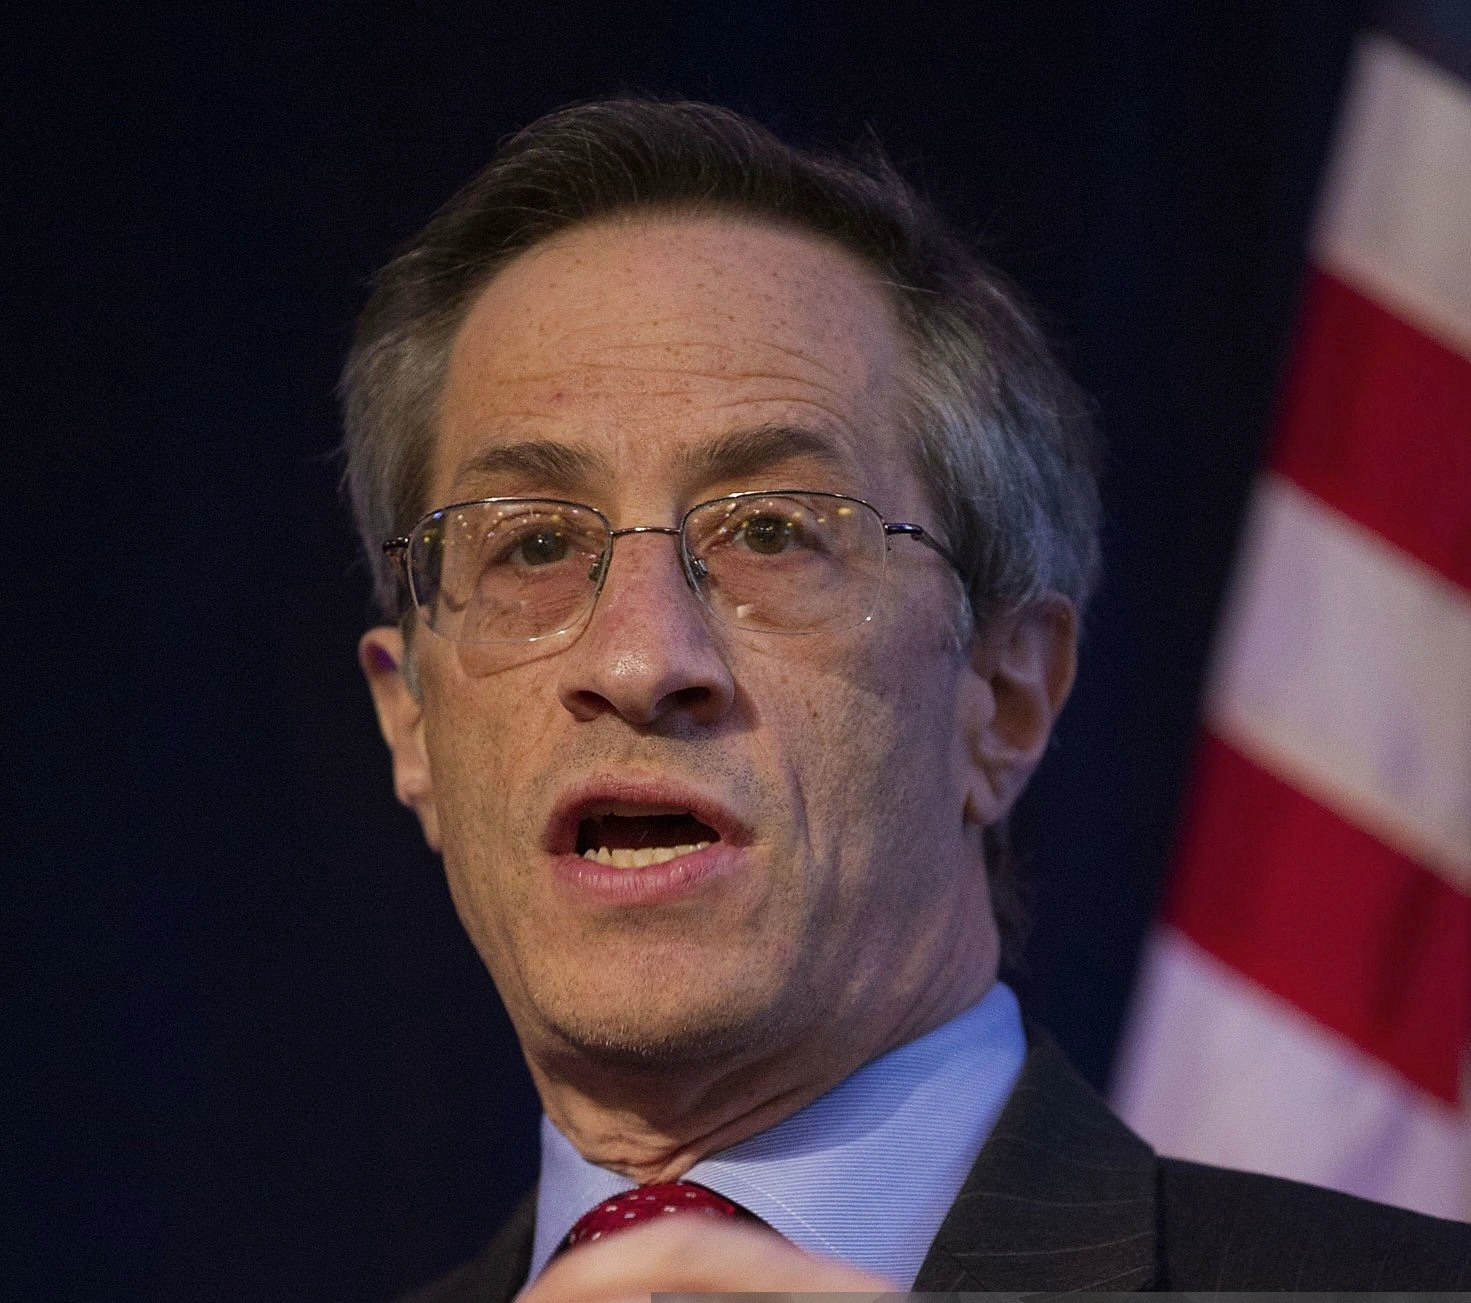
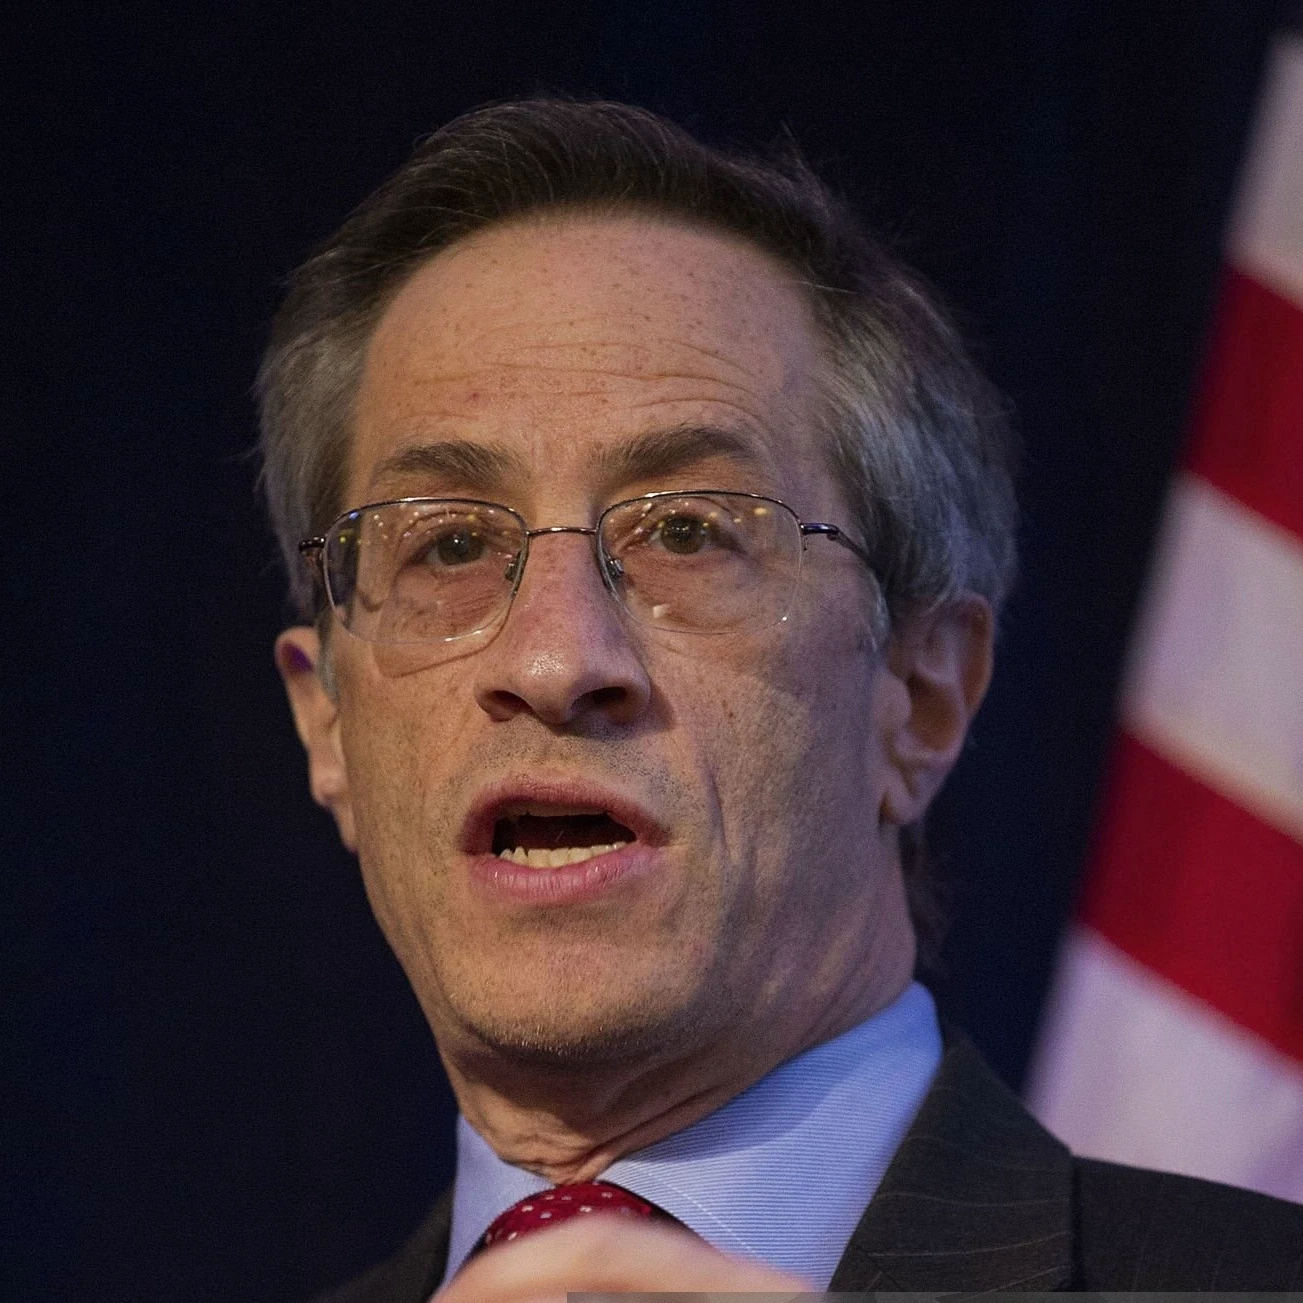
Add Leibowitz & Giacovas photos, apply duotone to all cards
- Card 2 (Leibowitz): replace initials with photo, center-cropped 1471×1303 → 1303×1303
- Card 4 (Giacovas): restore photo, center-cropped 267×200 → 200×200
- All 5 photo cards: full greyscale + red duotone overlay via mix-blend-mode: multiply
  hover lifts tint and restores colour — unified editorial look across all subjects

diff --git a/index.html b/index.html
@@ -689,11 +689,11 @@
 
     <!-- CARD 2: Lawrence E. Leibowitz — MODERATE -->
     <div class="player-card player-moderate">
-      <a href="https://www.crunchbase.com/person/lawrence-e-leibowitz" class="player-photo player-photo-link" target="_blank" rel="noopener">
-        <div class="player-initials">LEL</div>
+      <div class="player-photo player-photo-img">
+        <img src="Lawrence Leibowitz.webp" alt="Lawrence E. Leibowitz" class="player-photo-real" width="1303" height="1303" loading="lazy">
         <div class="player-photo-tag">CEO · EntryPoint Capital</div>
         <div class="player-risk-badge badge-moderate">▲ Moderate</div>
-      </a>
+      </div>
       <div class="player-body">
         <div class="player-name"><a href="https://www.crunchbase.com/person/lawrence-e-leibowitz" class="player-name-link" target="_blank" rel="noopener">Lawrence E. Leibowitz ↗</a></div>
         <div class="player-role">Chief Executive Officer — EntryPoint Capital LLC</div>
@@ -741,7 +741,7 @@
     <!-- CARD 4: Robert A. Giacovas — SEVERE -->
     <div class="player-card player-severe">
       <div class="player-photo player-photo-img">
-        <img src="Robert Giacovas.webp" alt="Robert A. Giacovas" class="player-photo-real" width="1303" height="1303" loading="lazy">
+        <img src="Robert Giacovas.webp" alt="Robert A. Giacovas" class="player-photo-real" width="200" height="200" loading="lazy">
         <div class="player-photo-tag">NJ PHV INELIGIBLE</div>
         <div class="player-risk-badge badge-severe">⬛ Severe</div>
       </div>

diff --git a/styles.css b/styles.css
@@ -1772,10 +1772,26 @@ a.stamp.stamp-public:hover {
   display: block;
   object-fit: cover;
   object-position: center top;
-  filter: grayscale(40%) contrast(1.1);
-  transition: filter 0.3s ease;
-}.player-photo-img:hover .player-photo-real {
-  filter: grayscale(10%) contrast(1.05);
+  filter: grayscale(100%) contrast(1.15) brightness(0.9);
+  transition: filter 0.4s ease;
+}
+/* Duotone red overlay — sits above the greyscale photo */
+.player-photo-img::after {
+  content: '';
+  position: absolute;
+  inset: 0;
+  background: rgba(180, 20, 20, 0.28);
+  mix-blend-mode: multiply;
+  pointer-events: none;
+  transition: opacity 0.4s ease;
+  z-index: 1;
+}
+/* On hover: lift the red tint and restore some colour */
+.player-photo-img:hover .player-photo-real {
+  filter: grayscale(20%) contrast(1.08) brightness(1.0);
+}
+.player-photo-img:hover::after {
+  opacity: 0;
 }/* ============================================================
    ACCESSIBILITY: Skip link + focus-visible
    ============================================================ */
